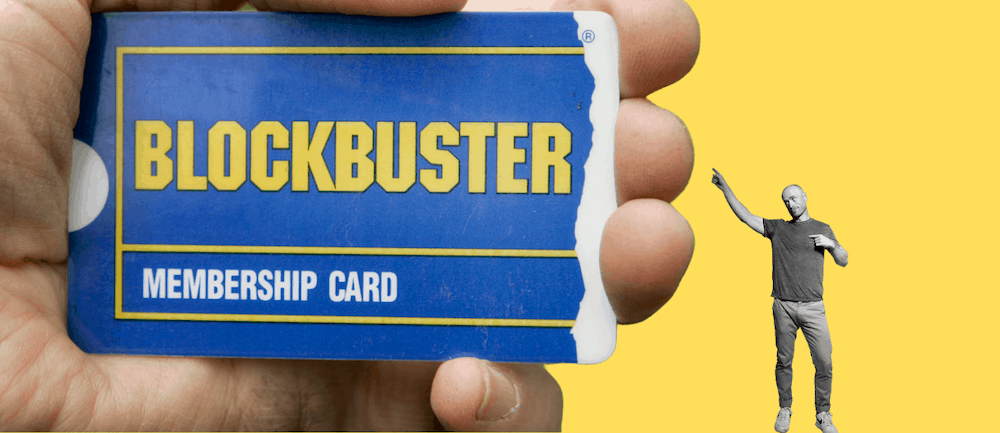
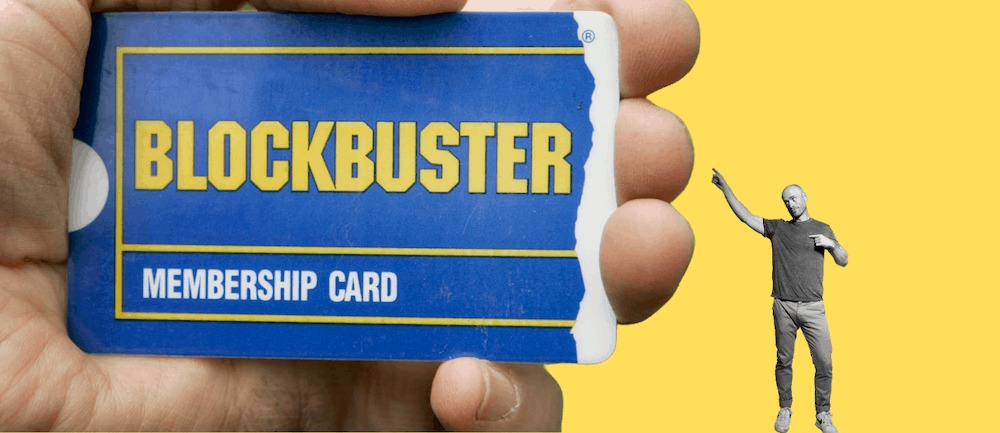
compressed photos for optimization time

diff --git a/client/src/components/Navbar.jsx b/client/src/components/Navbar.jsx
@@ -1,6 +1,6 @@
 import { useState } from "react";
 import { Link, NavLink } from "react-router-dom";
-import { Navbar, Nav, Modal, Tab, } from "react-bootstrap";
+import { Navbar, Nav, Modal, Tab } from "react-bootstrap";
 
 import Auth from "../utils/auth";
 
@@ -22,13 +22,12 @@ const AppNavbar = () => {
 
   const handleLinkClick = () => {
     if (expanded) {
-    setExpanded(false);
+      setExpanded(false);
     }
   };
 
   return (
     <>
-    
       <Navbar
         bg="dark"
         variant="dark"
@@ -136,7 +135,7 @@ const AppNavbar = () => {
               </Nav>
             </Modal.Title>
           </Modal.Header>
-          
+
           <Modal.Body>
             <Tab.Content>
               <Tab.Pane eventKey="login">
@@ -149,7 +148,6 @@ const AppNavbar = () => {
           </Modal.Body>
         </Tab.Container>
       </Modal>
-    
     </>
   );
 };
